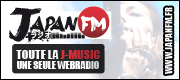
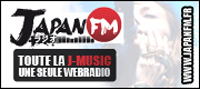
partners remaster new size

diff --git a/public/assets/css/portal.css b/public/assets/css/portal.css
@@ -3049,7 +3049,7 @@ li.galerie {
 }
 
 #sidebar .widget_partners ul li{
-    width: 100%;
+    width: 42%;
     float: left;
     margin-right: 22px;
     margin-bottom: 22px;
@@ -3058,5 +3058,5 @@ li.galerie {
 }
 
 #sidebar .widget_partners ul li a img{
-    width: 100%;
+    /*width: 100%;*/
 }
